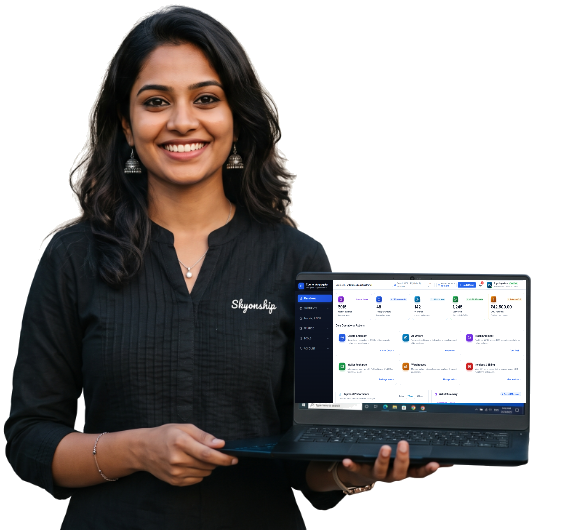
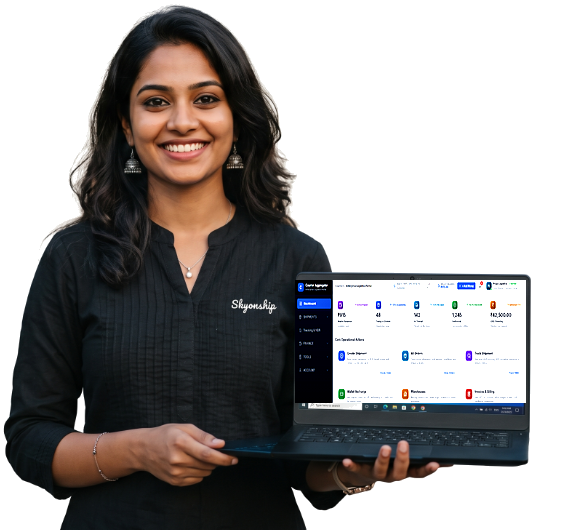
Apply unsharp contrast sharpening and enlarge laptop mockup for crystal clear dashboard display

diff --git a/src/pages/public/LandingPage.tsx b/src/pages/public/LandingPage.tsx
@@ -719,13 +719,13 @@ export const LandingPage: React.FC = () => {
               <div style={{ position: 'absolute', width: '320px', height: '320px', background: 'radial-gradient(circle, rgba(37, 99, 235, 0.18) 0%, transparent 70%)', filter: 'blur(40px)', zIndex: 0 }} />
 
               {/* Outer Laptop & Real Seller Photo Container */}
-              <div style={{ position: 'relative', zIndex: 2, width: '100%', maxWidth: '640px' }}>
+              <div style={{ position: 'relative', zIndex: 2, width: '100%', maxWidth: '700px' }}>
                 
-                {/* 4K Real Seller Woman holding Laptop with 100% Zero-Gap Dashboard Overlay */}
+                {/* 4K Real Seller Woman holding Laptop with Ultra-Sharp Sharpened Dashboard Overlay */}
                 <div style={{
                   position: 'relative',
                   overflow: 'visible',
-                  filter: 'drop-shadow(0 25px 35px rgba(15, 23, 42, 0.18))',
+                  filter: 'drop-shadow(0 25px 40px rgba(15, 23, 42, 0.2))',
                   display: 'flex',
                   justify: 'center'
                 }}>
@@ -735,10 +735,11 @@ export const LandingPage: React.FC = () => {
                     style={{
                       width: '100%',
                       height: 'auto',
-                      maxHeight: '520px',
+                      maxHeight: '560px',
                       objectFit: 'contain',
-                      transform: 'scale(1.08)',
-                      transformOrigin: 'center center'
+                      transform: 'scale(1.12)',
+                      transformOrigin: 'center center',
+                      imageRendering: '-webkit-optimize-contrast'
                     }}
                   />
                 </div>
